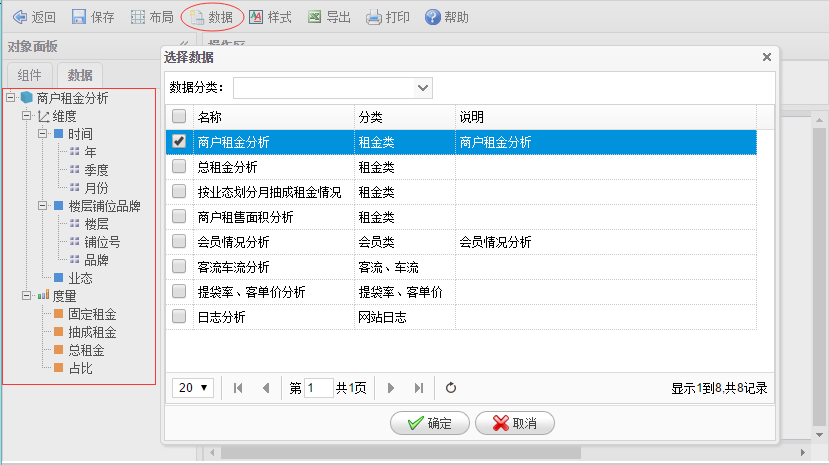
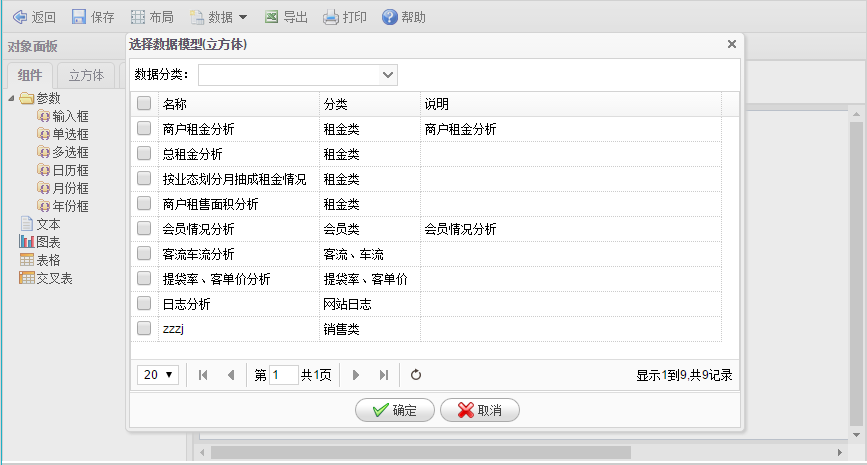
Updates shu_ju.md
Auto commit by GitBook Editor

diff --git a/shu_ju.md b/shu_ju.md
@@ -2,6 +2,8 @@
 
 1.在**报表定制**页面点击**数据**菜单选择需要展现的数据。数据分为导入的**数据表**及建模的**立方体**，数据表数据映射表格组件、立方体数据映射图形、交叉表组件。
 
+2.点击**数据**、**选择立方体**菜单选择已建模的立方体数据。
+
 ![](/assets/import44.png)
 
 2.选择数据后，在**数据**选项卡能看到刚才选择的数据。
